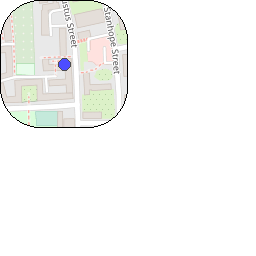
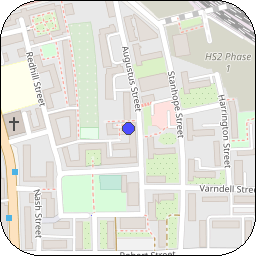
moving map example

diff --git a/build-scripts/examples/05-moving-map.md b/build-scripts/examples/05-moving-map.md
@@ -29,11 +29,11 @@ map providers will provide tiles for zoom levels 19 & 20. Zoom levels 18 and bel
 For more information on zoom levels see: [Zoom Levels](https://wiki.openstreetmap.org/wiki/Zoom_levels) on the
 OpenStreetMap wiki.
 
-{{ <component type="moving_map" size="128" zoom="4" /> }}
+{{ <component type="moving_map" size="256" zoom="4" /> }}
 
-{{ <component type="moving_map" size="128" zoom="10" /> }}
+{{ <component type="moving_map" size="256" zoom="10" /> }}
 
-{{ <component type="moving_map" size="128" zoom="17" /> }}
+{{ <component type="moving_map" size="256" zoom="17" /> }}
 
 ## Opacity
 
@@ -46,11 +46,11 @@ The gopro video will be visible through the component, if it is not completely o
 
 Corners can be rounded with `corner_radius`.
 
-{{ <component type="moving_map" size="128" corner_radius="40" /> }}
+{{ <component type="moving_map" size="256" corner_radius="40" /> }}
 
 if `corner_radius` == half the width (ie. the radius) then the corners will be so rounded that the map becomes a circle
 
-{{ <component type="moving_map" size="128" corner_radius="64" /> }}
+{{ <component type="moving_map" size="256" corner_radius="128" /> }}
 
 ## Map Provider & Styles
 

diff --git a/docs/xml/examples/05-moving-map/README.md b/docs/xml/examples/05-moving-map/README.md
@@ -50,21 +50,21 @@ OpenStreetMap wiki.
 
 
 ```xml
-<component type="moving_map" size="128" zoom="4" />
+<component type="moving_map" size="256" zoom="4" />
 ```
 <kbd>![05-moving-map-3.png](05-moving-map-3.png)</kbd>
 
 
 
 ```xml
-<component type="moving_map" size="128" zoom="10" />
+<component type="moving_map" size="256" zoom="10" />
 ```
 <kbd>![05-moving-map-4.png](05-moving-map-4.png)</kbd>
 
 
 
 ```xml
-<component type="moving_map" size="128" zoom="17" />
+<component type="moving_map" size="256" zoom="17" />
 ```
 <kbd>![05-moving-map-5.png](05-moving-map-5.png)</kbd>
 
@@ -87,7 +87,7 @@ Corners can be rounded with `corner_radius`.
 
 
 ```xml
-<component type="moving_map" size="128" corner_radius="40" />
+<component type="moving_map" size="256" corner_radius="40" />
 ```
 <kbd>![05-moving-map-7.png](05-moving-map-7.png)</kbd>
 
@@ -96,7 +96,7 @@ if `corner_radius` == half the width (ie. the radius) then the corners will be s
 
 
 ```xml
-<component type="moving_map" size="128" corner_radius="64" />
+<component type="moving_map" size="256" corner_radius="128" />
 ```
 <kbd>![05-moving-map-8.png](05-moving-map-8.png)</kbd>
 
